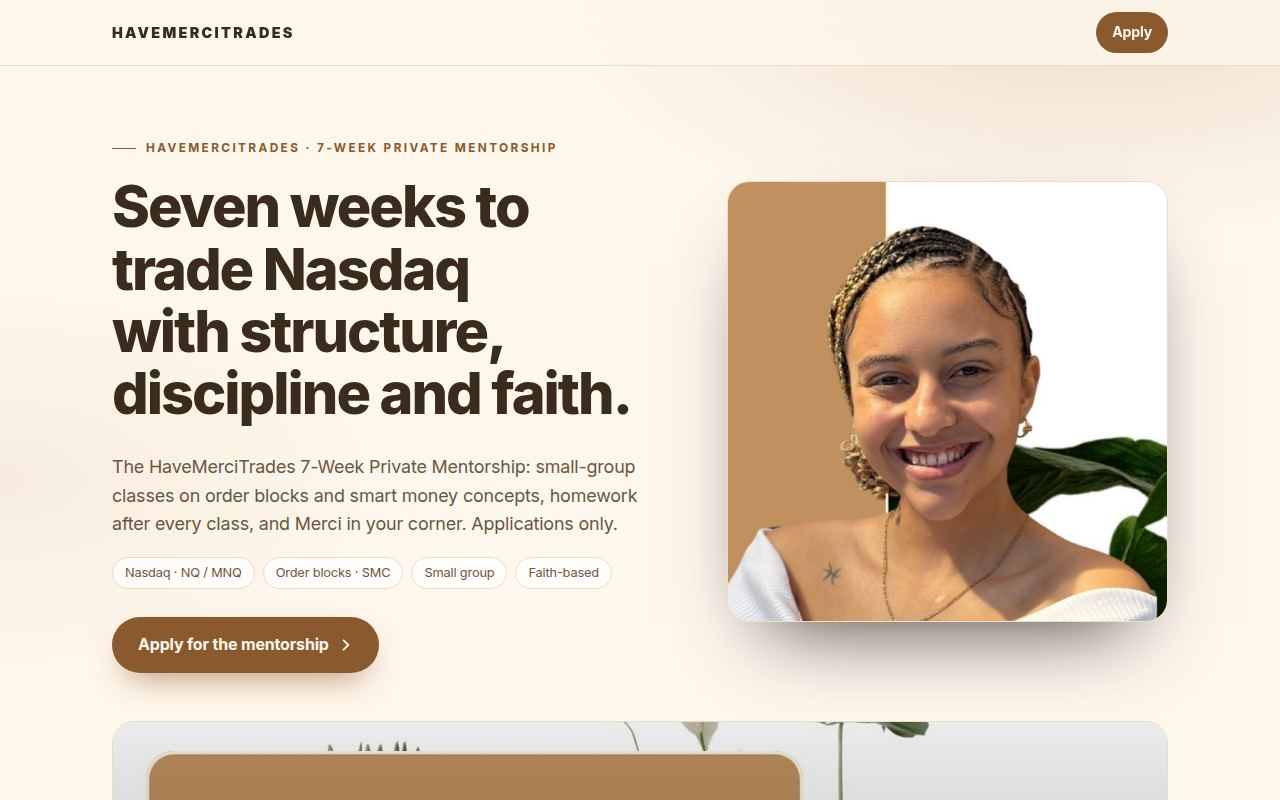
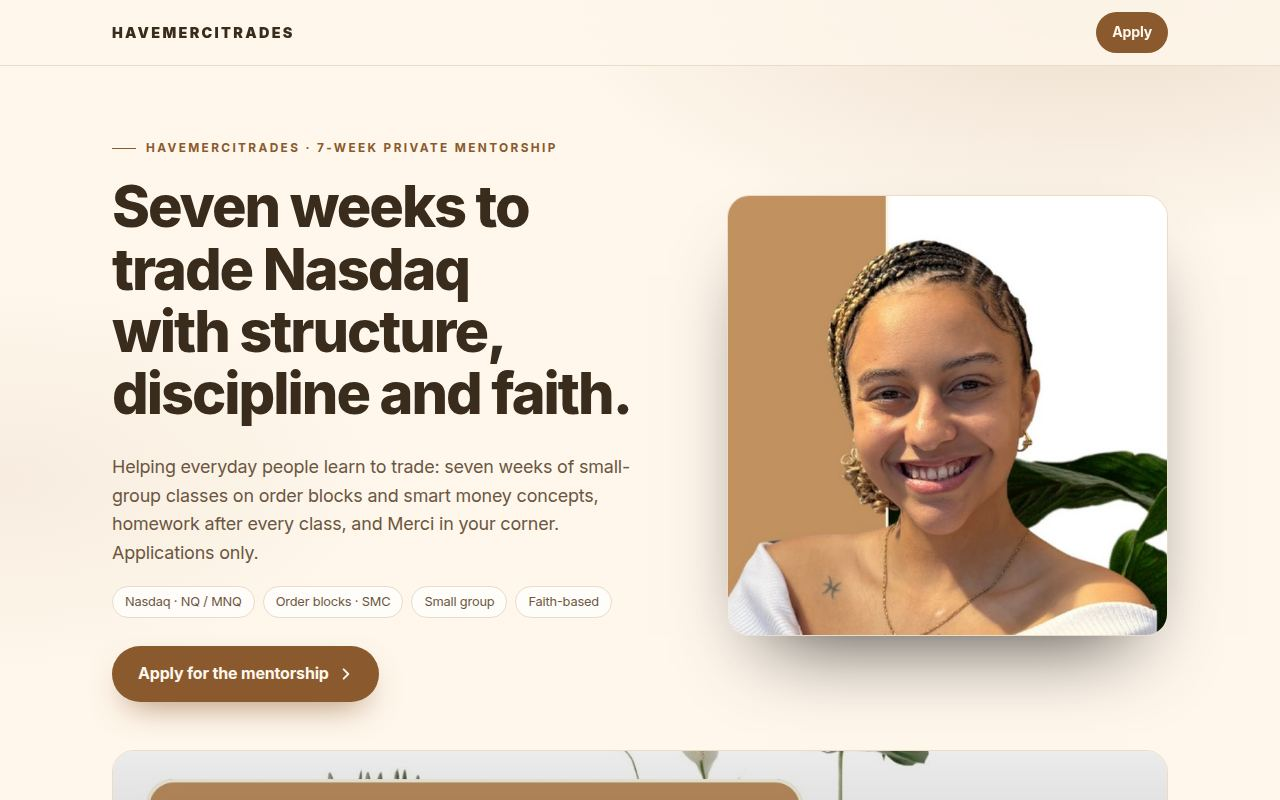
havemercitrades: use profile screenshot (29.6K, bio, Komi link), reframe broken-links point
Claude-Session: https://claude.ai/code/session_01E4kNz1kYaYuGSEcxwL7mwV

diff --git a/havemercitrades/funnel/index.html b/havemercitrades/funnel/index.html
@@ -133,7 +133,7 @@ els.forEach(e=>io.observe(e))});
     <div>
       <span class="eyebrow reveal">HaveMerciTrades · 7-Week Private Mentorship</span>
       <h1 class="reveal">Seven weeks to trade Nasdaq with structure, discipline and faith.</h1>
-      <p class="lead reveal">The HaveMerciTrades 7-Week Private Mentorship: small-group classes on order blocks and smart money concepts, homework after every class, and Merci in your corner. Applications only.</p>
+      <p class="lead reveal">Helping everyday people learn to trade: seven weeks of small-group classes on order blocks and smart money concepts, homework after every class, and Merci in your corner. Applications only.</p>
       <ul class="chips reveal"><li>Nasdaq · NQ / MNQ</li><li>Order blocks · SMC</li><li>Small group</li><li>Faith-based</li></ul>
       <a class="btn reveal" href="#apply">Apply for the mentorship <svg viewBox="0 0 12 12" aria-hidden="true"><path d="M4 2l4 4-4 4" fill="none" stroke="currentColor" stroke-width="1.6" stroke-linecap="round" stroke-linejoin="round"/></svg></a>
     </div>
@@ -144,7 +144,7 @@ els.forEach(e=>io.observe(e))});
 <section><div class="wrap"><div class="sec-head"><span class="eyebrow reveal">The problem</span><h2 class="reveal">Sound familiar?</h2></div><div class="grid3"><div class="card reveal"><span class="num">01</span><h3>You know the concepts, not the process</h3><p>You&#x27;ve watched the order block videos. At the open you still don&#x27;t know which setup to take, or when to sit on your hands.</p></div><div class="card reveal"><span class="num">02</span><h3>You overtrade, then revenge trade</h3><p>One loss turns into three. It isn&#x27;t a strategy problem. It&#x27;s a discipline problem, and nobody is holding you to a plan.</p></div><div class="card reveal"><span class="num">03</span><h3>You&#x27;re learning alone next to a 9-to-5</h3><p>Limited time, no one to review your trades, and no structure that fits around your job.</p></div></div></div></section>
 <section><div class="wrap"><div class="sec-head"><span class="eyebrow reveal">The method</span><h2 class="reveal">Structured trading is simple trading</h2><p class="lead reveal">One market, one clear A+ setup and fixed risk. Over seven weeks you learn to read Nasdaq with order blocks and liquidity, trade the New York open with a plan, and journal every trade, with faith and discipline instead of pressure.</p></div><div class="pillars"><div class="pillar reveal"><span>01</span><h3>Structure</h3><p>Order blocks, liquidity and a clear bias before the open.</p></div><div class="pillar reveal"><span>02</span><h3>Setup</h3><p>One Grade A setup on NQ / MNQ, written down.</p></div><div class="pillar reveal"><span>03</span><h3>Risk</h3><p>Prop-firm style risk rules so losses never overpower wins.</p></div><div class="pillar reveal"><span>04</span><h3>Reflection</h3><p>Journal every trade and review it, not revenge it.</p></div></div></div></section>
 <section><div class="wrap"><div class="sec-head"><span class="eyebrow reveal">The mentorship</span><h2 class="reveal">What&#x27;s inside the mentorship</h2></div><div class="grid3"><div class="card reveal"><span class="num">01</span><h3>7 weeks of live classes</h3><p>A small group, one topic a week, from structure to execution.</p></div><div class="card reveal"><span class="num">02</span><h3>Homework after every class</h3><p>Short assignments reviewed so you know the material stuck.</p></div><div class="card reveal"><span class="num">03</span><h3>Live Nasdaq sessions</h3><p>Watch the New York open traded with the same process.</p></div><div class="card reveal"><span class="num">04</span><h3>Ebook Volume 3</h3><p>Merci&#x27;s newest ebook, included with the mentorship.</p></div><div class="card reveal"><span class="num">05</span><h3>Trading plan and journal</h3><p>A written plan and a journaling routine you keep after week 7.</p></div><div class="card reveal"><span class="num">06</span><h3>HaveMerciTrades community</h3><p>A faith-based community of traders who hold each other accountable.</p></div></div></div></section>
-<section><div class="wrap"><div class="sec-head"><span class="eyebrow reveal">Proof</span><h2 class="reveal">Students</h2></div><div class="proof-grid"><div class="proof-slot reveal"><span class="flag">{{SWAP}} Mentorship student story</span></div><div class="proof-slot reveal"><span class="flag">{{SWAP}} Mentorship student story</span></div><div class="proof-slot reveal"><span class="flag">{{SWAP}} Community member story</span></div></div><p class="note">Individual results, not typical. Trading futures and forex involves substantial risk of loss.</p></div></section>
+<section><div class="wrap"><div class="sec-head"><span class="eyebrow reveal">Proof</span><h2 class="reveal">Students</h2></div><div class="proof-grid"><div class="proof-slot reveal"><span class="flag">{{SWAP}} Student result from the “Student Results” highlight on Instagram</span></div><div class="proof-slot reveal"><span class="flag">{{SWAP}} Student result from the “Student Results” highlight on Instagram</span></div><div class="proof-slot reveal"><span class="flag">{{SWAP}} Mentorship student story</span></div></div><p class="note">Individual results, not typical. Trading futures and forex involves substantial risk of loss.</p></div></section>
 <section><div class="wrap narrow"><div class="sec-head"><span class="eyebrow reveal">The process</span><h2 class="reveal">How it works</h2></div><ol class="steps"><li class="reveal"><span class="n">1</span><div><h3>Apply</h3><p>6 short questions, about 2 minutes.</p></div></li><li class="reveal"><span class="n">2</span><div><h3>Book a call</h3><p>If it looks like a fit, pick a time to talk with Merci.</p></div></li><li class="reveal"><span class="n">3</span><div><h3>Decide on the call</h3><p>We look at where you are and whether the mentorship makes sense. No pressure either way.</p></div></li></ol></div></section>
 <section id="apply"><div class="wrap narrow">
   <div class="sec-head"><span class="eyebrow reveal">Application</span><h2 class="reveal">Apply for the 7-Week Private Mentorship</h2><p class="lead reveal">Six questions, about two minutes.</p></div>

diff --git a/havemercitrades/index.html b/havemercitrades/index.html
@@ -191,15 +191,15 @@ els.forEach(e=>io.observe(e))});
   <div class="bridge__head"><h2 class="display h-lg reveal">Four things I noticed</h2></div>
   <div class="beats"><article class="beat reveal">
   <span class="beat__idx">01</span>
-  <div><p class="beat__kicker">The audience and the price</p><h3 class="beat__title">24.1K on Instagram, and seven weeks of mentorship for $500.</h3><p class="beat__text">Your mentorship fills from a Telegram post and a JotForm: $250 to hold a spot, $250 when it starts. One-on-one time is $100 an hour. The demand is there. The sales process and the pricing haven&#x27;t caught up with it.</p></div>
-  <aside class="aside"><div class="aside__stat"><strong>24.1K</strong><span>Instagram followers</span></div><div class="aside__stat"><strong>$500</strong><span>7-week mentorship</span></div><div class="aside__stat"><strong>$100</strong><span>per 1-on-1 hour</span></div></aside>
+  <div><p class="beat__kicker">The audience and the price</p><h3 class="beat__title">29.6K on Instagram, and seven weeks of mentorship for $500.</h3><p class="beat__text">Your mentorship fills from a Telegram post and a JotForm: $250 to hold a spot, $250 when it starts. One-on-one time is $100 an hour. The demand is there. The sales process and the pricing haven&#x27;t caught up with it.</p></div>
+  <aside class="aside"><div class="aside__stat"><strong>29.6K</strong><span>Instagram followers</span></div><div class="aside__stat"><strong>$500</strong><span>7-week mentorship</span></div><div class="aside__stat"><strong>$100</strong><span>per 1-on-1 hour</span></div></aside>
 </article><article class="beat reveal">
   <span class="beat__idx">02</span>
   <div><p class="beat__kicker">The warm audience</p><h3 class="beat__title">1,700 people read your Telegram. The mentorship still sells in a single post.</h3><p class="beat__text">In August you posted that three spots were filled and two were left in the last mentorship of the year. That&#x27;s warm demand going through a form with no page, no call and no follow-up in between.</p></div>
   <aside class="aside"><div class="aside__stat"><strong>1,700</strong><span>Telegram subscribers</span></div><div class="aside__stat"><strong>2.78K</strong><span>YouTube subscribers</span></div></aside>
 </article><article class="beat reveal">
   <span class="beat__idx">03</span>
-  <div><p class="beat__kicker">The broken links</p><h3 class="beat__title">The first two links on your Linktree lead nowhere.</h3><p class="beat__text">Your course link opens a Teachable school with no products, and “HaveMerciTrades Trading Community” points to havemercitrades.com, which shows a closed Shopify store. Your YouTube description sends people to the same website.</p></div>
+  <div><p class="beat__kicker">The broken links</p><h3 class="beat__title">The website your YouTube sends people to shows a closed store.</h3><p class="beat__text">Your YouTube description says “Visit my website for more information on signals and services”. havemercitrades.com, also the first Google result for your name, now shows a closed Shopify store, and the course link on your old Linktree opens an empty Teachable school.</p></div>
   <aside class="aside"><blockquote>“This store is currently unavailable.”</blockquote><p class="aside__src">havemercitrades.com</p></aside>
 </article><article class="beat reveal">
   <span class="beat__idx">04</span>

diff --git a/havemercitrades/dossier.md b/havemercitrades/dossier.md
@@ -17,7 +17,7 @@ Recherche-Stand: 29.09.2026. Nur öffentlich zugängliche Quellen. Was nicht bel
 
 | Plattform | Kennzahl | Quelle |
 |---|---|---|
-| Instagram @havemercitrades | **24,1K Follower** (Nutzer-Tabelle); Instagram-API 401 (rate-limitiert) `[CONFIRM]` | Nutzer, 29.09.2026 |
+| Instagram @havemercitrades | **29,6K Follower, 794 Posts, 811 folgt**, verifiziert (blauer Haken). Bio: „Full Time Day Trader • Wife • SAHM • Homeschool Mom / Helping everyday people learn to trade 💕 / ⬇ Join my community“, Link: **havemercitrades.komi.io**, Threads. Highlights u. a. „Live sessio…“, „Student R…“ (Student Results), „2026 Trad…“, „EBOOKS“, „Futures“, „Books“, „Trading Ti…“, „Nas100 pt2“. Gepinnter Post „About me“: „I'm Merci! I'm a 26-year-old wife, mom of two little boys, and a faith-based day trader with nearly 5 years of experience … I lead a day trading community where I offer daily support, live sessions, and guidance …“. Posts u. a. „How much I made Trading Nasdaq in the Futures Market on a 50k Prop Firm Account Last Week“ (P&L-Screenshots) | Profil-Screenshot vom Nutzer (PDF), 29.09.2026; Nutzer-Tabelle nannte 24,1K |
 | YouTube @HaveMerciTrades | **2,78K Abonnenten, 66 Videos, 143.029 Views**; Beschreibung: „…Visit my website for more information on signals and services!“ | YouTube „About“, 29.09.2026 |
 | Telegram t.me/HaveMerciTrades | **1.700 Abonnenten**; Posts mit 117–385 Views (Juli–Sept. 2026) | t.me, 29.09.2026 |
 | X, Threads | vorhanden, nicht ausgewertet | Websuche |
@@ -26,7 +26,11 @@ Recherche-Stand: 29.09.2026. Nur öffentlich zugängliche Quellen. Was nicht bel
 
 Letzte Long-Form: „The Basics Of Order Blocks“ (369, vor 5 Monaten), „Live Nasdaq Trading Session“ (593, 7 Monate), „What to look for when Day Trading Opening Bell“ (734), „How to Effectively Back-Test Using Tradezella“ (1K), „My Simple Grade A Set-up Trading MNQ/NQ“ (1,9K), „My Prop Firm Risk Management“ (1,3K). Shorts 480–2,1K Views, Themen: Disziplin, Reflexion statt Revenge, 9-to-5-Trader („To anyone learning while working a 9-5…“), Overtrading („Over trading isn't a strategy problem it's a discipline problem“), TradeZella-Journaling.
 
-## Angebote und Links (Linktree linktr.ee/havemercitradess, Reihenfolge)
+## Angebote und Links
+
+Aktueller Bio-Link: havemercitrades.komi.io (Komi-Seite lädt nur per JavaScript/App, Inhalt nicht abrufbar `[CONFIRM]` – Screenshot vom Nutzer anfragen). Die Linktree-Seite ist vermutlich die **alte** Link-Seite (weiterhin öffentlich und bei Google gelistet).
+
+### Alter Linktree (linktr.ee/havemercitradess), Reihenfolge
 
 | # | Link | Befund (29.09.2026) |
 |---|---|---|

diff --git a/havemercitrades/README.md b/havemercitrades/README.md
@@ -8,7 +8,7 @@ Seiten: `index.html` (Pitch), `funnel/`, `funnel/thank-you/`, `emails/`, `ads/` 
 
 ## Offene `[CONFIRM]`-Stellen (intern)
 
-1. Instagram 24,1K aus der Nutzer-Tabelle; Instagram-API rate-limitiert.
+1. Instagram per Profil-Screenshot des Nutzers: 29,6K (Tabelle sagte 24,1K). Inhalt der aktuellen Bio-Link-Seite havemercitrades.komi.io noch offen (lädt nur per JS) – Screenshot anfragen.
 2. Mighty-Networks-Community: Preis/Pläne hinter Bot-Check.
 3. Ob die Mentorship „small group“ ist (aus „3 filled, 2 left“ abgeleitet) und ob Live-NY-Sessions Teil der Mentorship sind.
 4. Pronomen/Anrede: Seiten und Mails sprechen Merci in der 1. Person bzw. mit Namen an; keine Pronomen verwendet.
